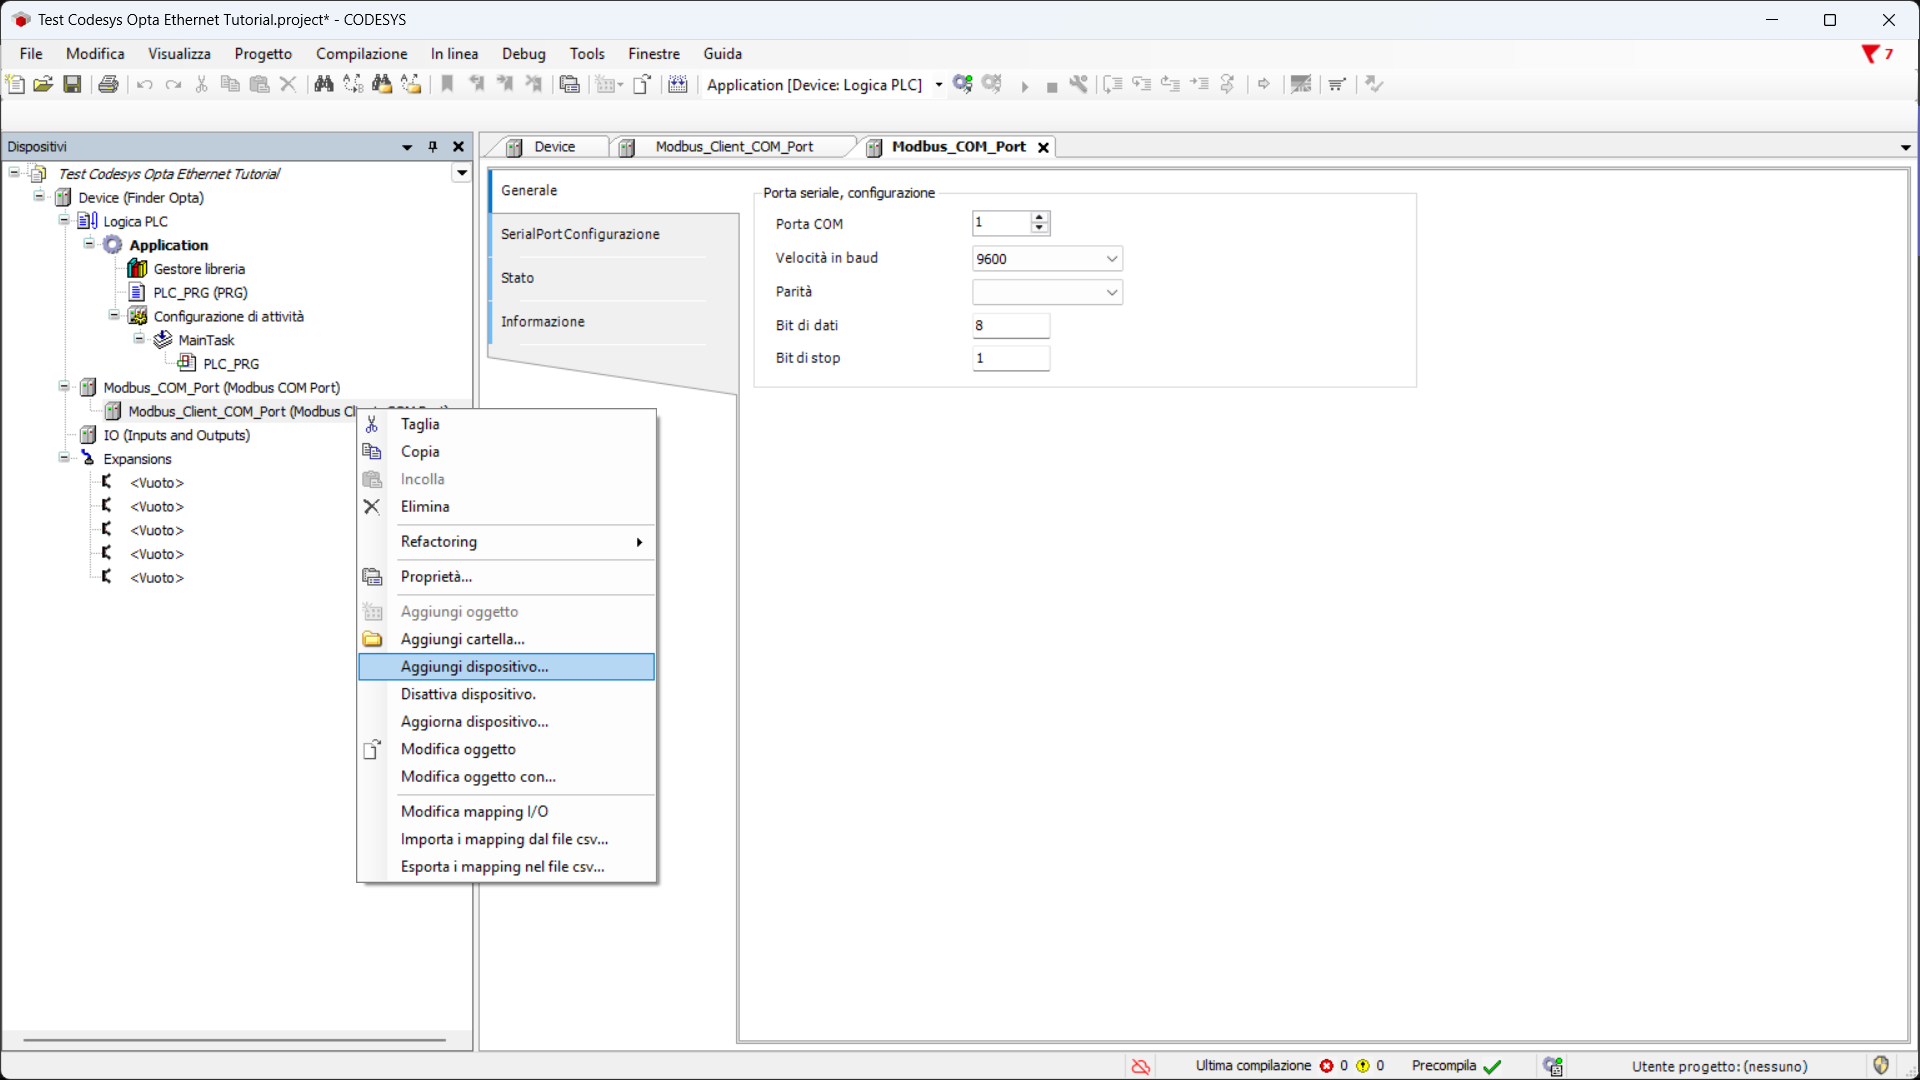
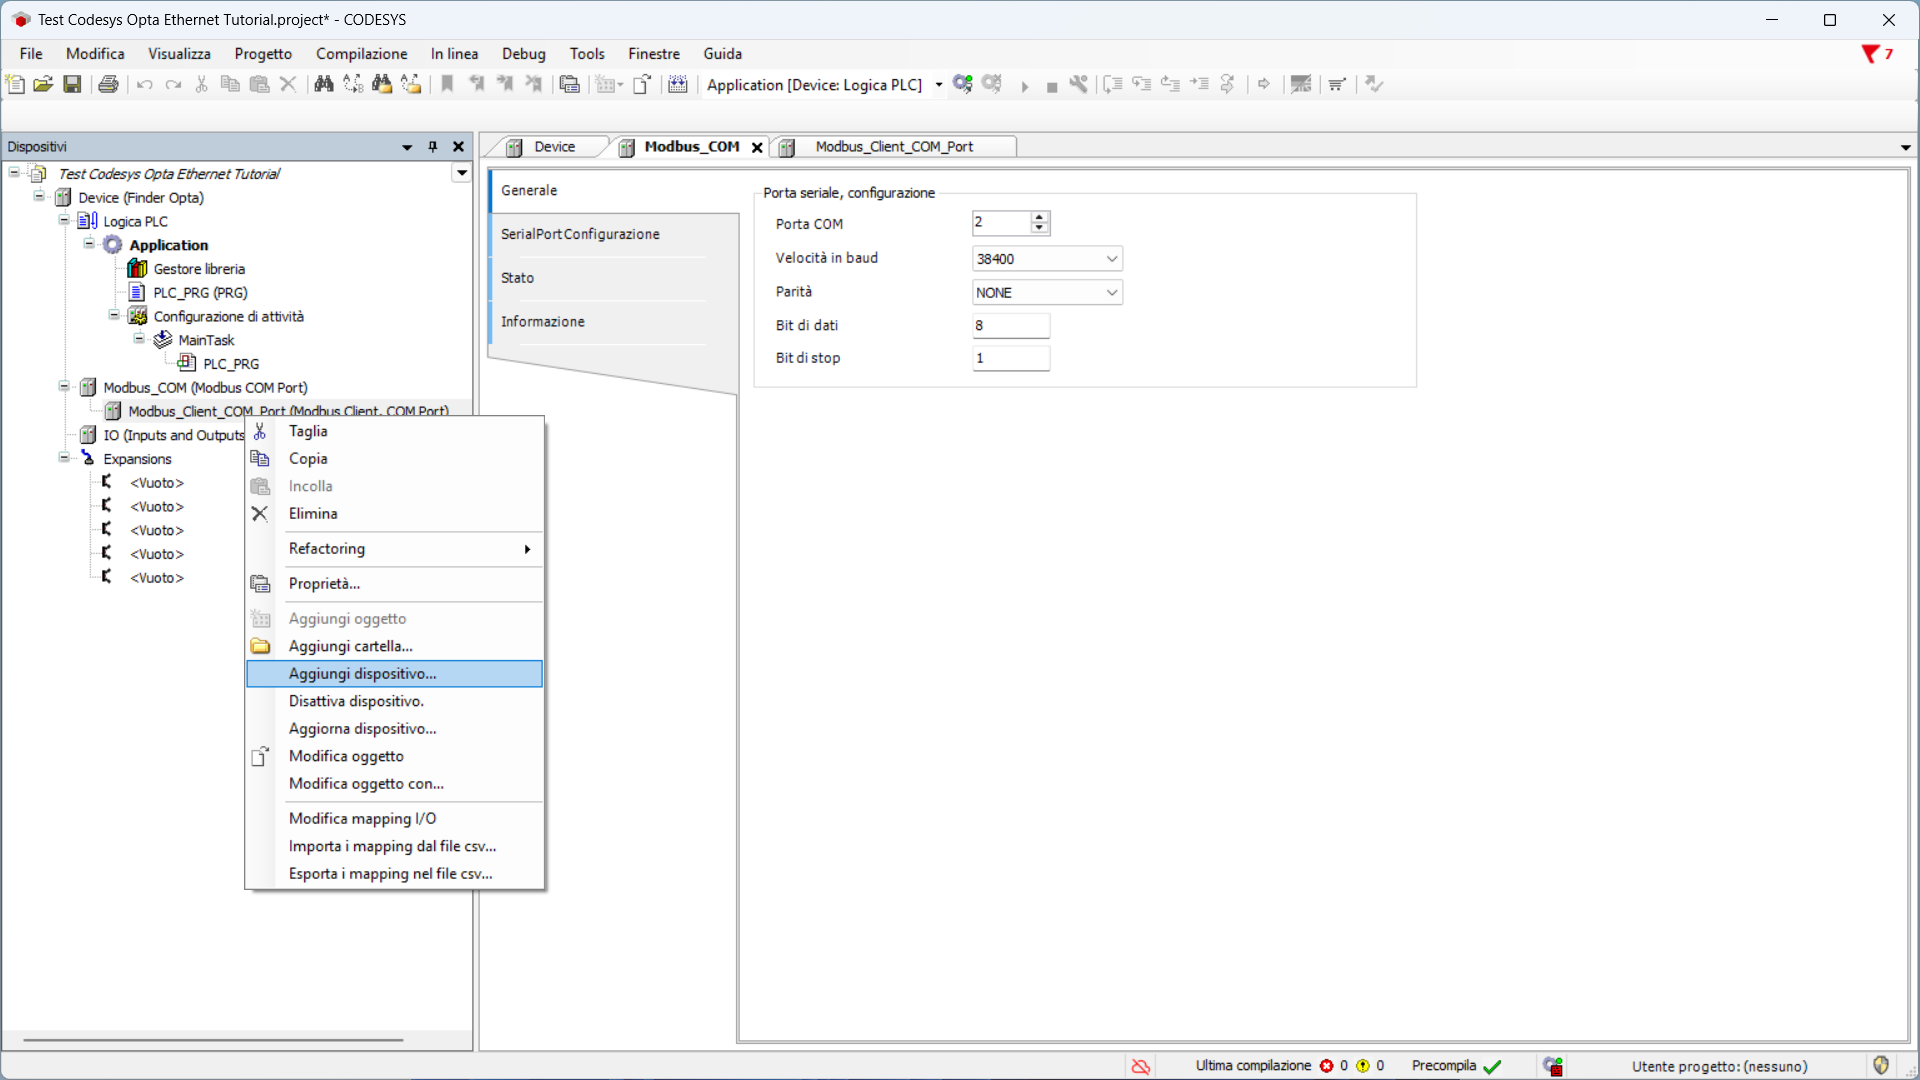
wip: english version

diff --git a/tutorials/CodesysOpta7MReaderTutorial/content.md b/tutorials/CodesysOpta7MReaderTutorial/content.md
@@ -1,62 +1,203 @@
-# Reading a Finder 7M Modbus series using Finder OPTA in CODESYS
+# Reading a Finder 7M Series via Modbus RTU with Finder OPTA in CODESYS
 
 ## Overview
 
-CODESYS is one of the leading development environments for PLCs and 
-allows you to program Finder OPTA using standard languages such as LD and ST.
+CODESYS is one of the leading development environments for PLCs and allows you to program Finder OPTA using standard languages such as LD and ST.
 
-This tutorial will guide you through reading a Finder 7M series 
-using a Finder OPTA in just a few simple steps.
+This tutorial guides you through reading a Finder 7M series device with Finder OPTA in just a few simple steps.
 
 ## Objectives
 
-- Configure Finder OPTA via Ethernet to read the registers of a Finder 7M series device  
-- Read the registers of a Finder 7M series device via Modbus RTU
+- Configure Finder OPTA via Ethernet to read registers from a Finder 7M series device  
+- Read registers from a Finder 7M series device via Modbus RTU
 
 ## Requirements
 
 Before starting, make sure you have:
 
 - [Finder OPTA CODESYS PLC](https://opta.findernet.com/en/codesys) (x1)  
-- [12W or 25W switching power supply for OPTA](https://opta.findernet.com/en/codesys#expansion-modules) (x1)  
-- [Finder 7M series](https://www.findernet.com/en/worldwide/series/7m-series-smart-energy-meters/) **Modbus** connected to the Finder OPTA (x1)  
+- [12W or 25W switching power supply for OPTA](https://opta.findernet.com/en/codesys#moduli-espansione) (1x)  
+- Finder 7M series with Modbus RTU (x1)  
+    - [7M.24.8230.0210](https://www.findernet.com/en/worldwide/series/serie-7m-contatori-di-energia/type/tipo-7m-24-contatore-di-energia-monofase-bidirezionale-con-display-lcd/)  
+    - [7M.38.8400.0212](https://www.findernet.com/en/worldwide/series/serie-7m-contatori-di-energia/type/tipo-7m-38-contatori-di-energia-multifunzione-bidirezionale-80-a/)  
 - Ethernet cable (x1)  
-- CODESYS development environment installed with the OPTA Configurator plug-in. You can find an installation guide [at this link](https://opta.findernet.com/en/tutorial/codesys-plugin-tutorial)  
-- Properly configured network: the PC must be able to communicate with Finder OPTA via Ethernet. You can find a configuration guide [at this link](https://opta.findernet.com/en/tutorial/codesys-via-ethernet) 
+- CODESYS development environment installed with the OPTA Configurator plug-in.  
+  You can find an installation guide [at this link](https://opta.findernet.com/en/tutorial/codesys-plugin-tutorial)  
+- Properly configured network: your PC must be able to communicate with Finder OPTA via Ethernet.  
+  Configuration guide available [here](https://opta.findernet.com/en/tutorial/codesys-via-ethernet)
+
+To follow this tutorial, you will need to connect the Finder 7M energy meter to the electrical grid and provide an appropriate load. You will also need to power the Finder OPTA using the power supply and properly configure the RS-485 serial connection. The diagram below shows the correct wiring between Finder OPTA and the Finder 7M series.
+
+![Connection](assets/connection.svg)
 
 ## Instructions
 
+In this tutorial, the configuration parameters used for Modbus communication with the Finder 7M series are:
 
-### Creating a CODESYS Project
+* Modbus Address: `1`  
+* Baudrate: `38400`  
+* Stop bit: `1`  
+* Parity: `NO`
 
-Open CODESYS:
+You can set these values via NFC using the [Finder Toolbox NFC application](https://www.findernet.com/en/worldwide/supporto/software-e-app/).
 
-![Open CODESYS](assets/en/01-welcome.png)
+### Creating the CODESYS Project
 
-Create a new project and choose **Standard Project**:
+Open CODESYS.
 
-![New Project](assets/en/02-new-project.png)
+![Open CODESYS](assets/it/01-welcome.png)
 
-Ensure the device is **Finder OPTA**, then select your programming language:
+Create a new project and choose `Standard Project`.
 
-![Standard Project](assets/en/03-standard-project.png)
+![New project](assets/it/02-new-project.png)
 
-### Detecting Finder OPTA over Ethernet
+Ensure the device is `Finder Opta`, then select the programming language (we’ll use ST).
 
-Now double-click **Device (Finder OPTA)** in the **Devices** tree; a pane like this will open:
+![Standard project](assets/it/03-standard-project.png)
 
-![Device](assets/en/04-device.png)
+### Identifying Finder OPTA via Ethernet
 
-Click **Scan Network** and confirm you see the Finder OPTA device appear under the Gateway:
+Now double-click on the `Device (Finder Opta)` entry in the `Devices` menu. A tab will open as shown below.
 
-![Scan Network](assets/en/05-scan-network.png)
+![Device](assets/it/04-device.png)
 
+Click the `Scan Network` button and ensure the Finder OPTA device appears under the Gateway.
 
+![Scan Network](assets/it/05-scan-network.png)
 
-## Conclusions
+### Modbus Configuration
 
-By following these steps, you have successfully programmed Finder OPTA in CODESYS via Ethernet and verified that the device is correctly connected to the network.
+Once the PC-Finder OPTA connection is verified, right-click on `Device (Finder Opta)` and select `Add Device`.
 
-If you encounter any issues during setup, make sure you followed each step carefully.
+![Device Menu](assets/it/06-device-menu.png)
 
-<!-- Include contact information for support -->
+From the list, select `Modbus COM Port` and click `Add Device`.
+
+![Add Modbus COM port](assets/it/07-add-modbus-com-port.png)
+
+Now set the serial port values:
+
+* COM Port: `2`, which is the RS-485 port of Finder OPTA  
+* Baudrate: `38400`  
+* Parity: `NONE`  
+* Data bits: `8`  
+* Stop bits: `1`
+
+![Set Modbus COM port](assets/it/08-set-modbus-com-port.png)
+
+After setting the serial port, right-click on `Modbus_COM_Port(Modbus COM Port)` and then on `Add Device`.
+
+![Modbus COM port menu](assets/it/09-modbus-com-port-menu.png)
+
+From the list, select `Modbus Client, COM Port` and click `Add Device`.
+
+![Add Modbus client](assets/it/10-add-modbus-client.png)
+
+Then right-click on the newly added entry in the side menu `Modbus_Client_COM_Port(Modbus Client, COM Port)` and click `Add Device`.
+
+![Modbus client menu](assets/it/11-modbus-client-port-menu.png)
+
+Select `Server Modbus, COM Port`, then click `Add Device`.
+
+![Add Server Modbus](assets/it/12-add-server-modbus.png)
+
+Click the newly added item in the side menu and ensure the `Server Address` is `1`.
+
+![Set Server Modbus](assets/it/13-set-server-modbus.png)
+
+On the same screen, click `Modbus Server Channel` and then `Add Channel` at the bottom right.  
+In this tutorial, we’ll read the frequency value from the Finder 7M. As defined in the [device technical manual](https://cdn.findernet.com/app/uploads/2021/09/20090052/Modbus-7M24-7M38_v2_30062021.pdf), the frequency value is in Input Registers `32498` and `32499` in `float` format. Set the channel values as follows:
+
+* Name: `Frequency`  
+* Access Type: `Read Input Registers (Function Code 4)`  
+* Trigger: `Cyclic`  
+* Cycle Time: `1000` (one read per second)  
+* Offset: `2498`  
+* Length: `2`  
+* Error Handling: `Keep last value`
+
+![Add Channel](assets/it/14-add-channel.png)
+
+After clicking `OK`, you will see the channel summary.
+
+![Set Channel](assets/it/15-set-channel.png)
+
+### Preparing the ST Program
+
+Now write the ST program that reads the frequency value.  
+The program flips the endianness of the bytes read from the Finder 7M registers and interprets them as a `float`.
+
+In the side menu, click on `PLC_PRG (PRG)`.
+
+![PLC PRG](assets/it/16-plc-prg.png)
+
+At the top of the editor, insert the following code:
+
+```st
+PROGRAM PLC_PRG
+VAR
+    words: ARRAY[0..1] OF WORD;
+    frequency_w: ARRAY[0..1] OF WORD;
+    ptr: POINTER TO REAL;
+    frequency: REAL;
+END_VAR
+```
+
+![Program Variables](assets/it/17-program-variables.png)
+
+In the lower part of the editor, insert the following code:
+
+```st
+// Flip endianness
+frequency_w[0] := words[1];
+frequency_w[1] := words[0];
+
+// Interpret as float
+ptr := ADR(frequency_w);
+frequency := ptr^;
+```
+
+![Program Code](assets/it/18-program-code.png)
+
+In the side menu, double-click on `Server_Modbus_porta_COM`. Now click on the  
+`ModbusGenericSerialServer mapping I/O` section, and in the table double-click on the `Variable`  
+cell to bring up the options button.
+
+![Add mapping](assets/it/19-add-mapping.png) 
+
+Click the options button to bring up the list of variables, expand the `Application`  
+entry and then `PLC_PRG`. At this point, click on the `words` variable and press `OK` to assign it  
+to the `Frequency` channel.
+
+![Variable association](assets/it/20-variable-association.png)
+
+The summary shows the variable assigned to the `Frequency` channel.
+
+![Variable Summary](assets/it/21-variable-summary.png)
+
+### Uploading the Program to Finder OPTA
+
+Now you can upload the program to the device by clicking  
+the green button at the top labeled `Login`.
+
+![Login](assets/it/22-login.png) 
+
+The program is uploaded to Finder OPTA. To start it, click  
+the `Start` button.
+
+![Start](assets/it/23-start.png)
+
+The `PLC_PRG` tab now displays the real-time frequency value stored  
+in the `frequency` variable — in this case, `49.98 Hz`.
+
+![Working](assets/it/24-working.png)
+
+## Conclusion
+
+By following these steps, you have successfully performed a Modbus RTU read  
+from the registers of a Finder 7M series device using Finder OPTA in CODESYS.
+
+If you encounter any issues, make sure the devices are properly wired  
+and that the Modbus parameters are configured as specified in the tutorial.
+
+<!-- Add contact info for support -->

diff --git a/tutorials/CodesysOpta7MReaderTutorial/content-it.md b/tutorials/CodesysOpta7MReaderTutorial/content-it.md
@@ -50,32 +50,32 @@ comunicazione Modbus con il Finder serie 7M sono:
 * Parity: `NO`.
 
 Possiamo impostare questi valori tramite NFC utilizzando [l'applicazione Finder
-Toolbox](https://www.findernet.com/it/italia/supporto/software-e-app/).
+Toolbox NFC](https://www.findernet.com/it/italia/supporto/software-e-app/).
 
 ### Creazione progetto CODESYS
 
-Apri CODESYS:
+Apri CODESYS.
 
 ![Open CODESYS](assets/it/01-welcome.png)
 
-Crea un nuovo progetto e scegli `Progetto standard`:
+Crea un nuovo progetto e scegli `Progetto standard`.
 
 ![New project](assets/it/02-new-project.png)
 
 Assicurati che il dispositivo sia `Finder Opta`, poi seleziona il 
-linguaggio del programma (in seguito usiamo ST):
+linguaggio del programma (in seguito usiamo ST).
 
 ![Standard project](assets/it/03-standard-project.png)
 
 ### Identificazione Finder OPTA via Ethernet
 
 A questo punto fai doppio click sulla voce `Device (Finder Opta)` 
-del menu `Devices`, si aprirà una scheda come mostrato qui sotto:
+del menu `Devices`, si aprirà una scheda come mostrato qui sotto.
 
 ![Device](assets/it/04-device.png)
 
 Premi il bottone `Sfoglia la rete` e assicurati di vedere il
-dispositivo Finder OPTA comparire sotto il Gateway:
+dispositivo Finder OPTA comparire sotto il Gateway.
 
 ![Scan Network](assets/it/05-scan-network.png)
 
@@ -164,7 +164,7 @@ END_VAR
 
 ![Program Variables](assets/it/17-program-variables.png)
 
-Nella parte inferiore dell'editor inserisci il seguente codice:
+In the lower part of the editor, insert the following code:
 
 ```st
 // Flip endianness
